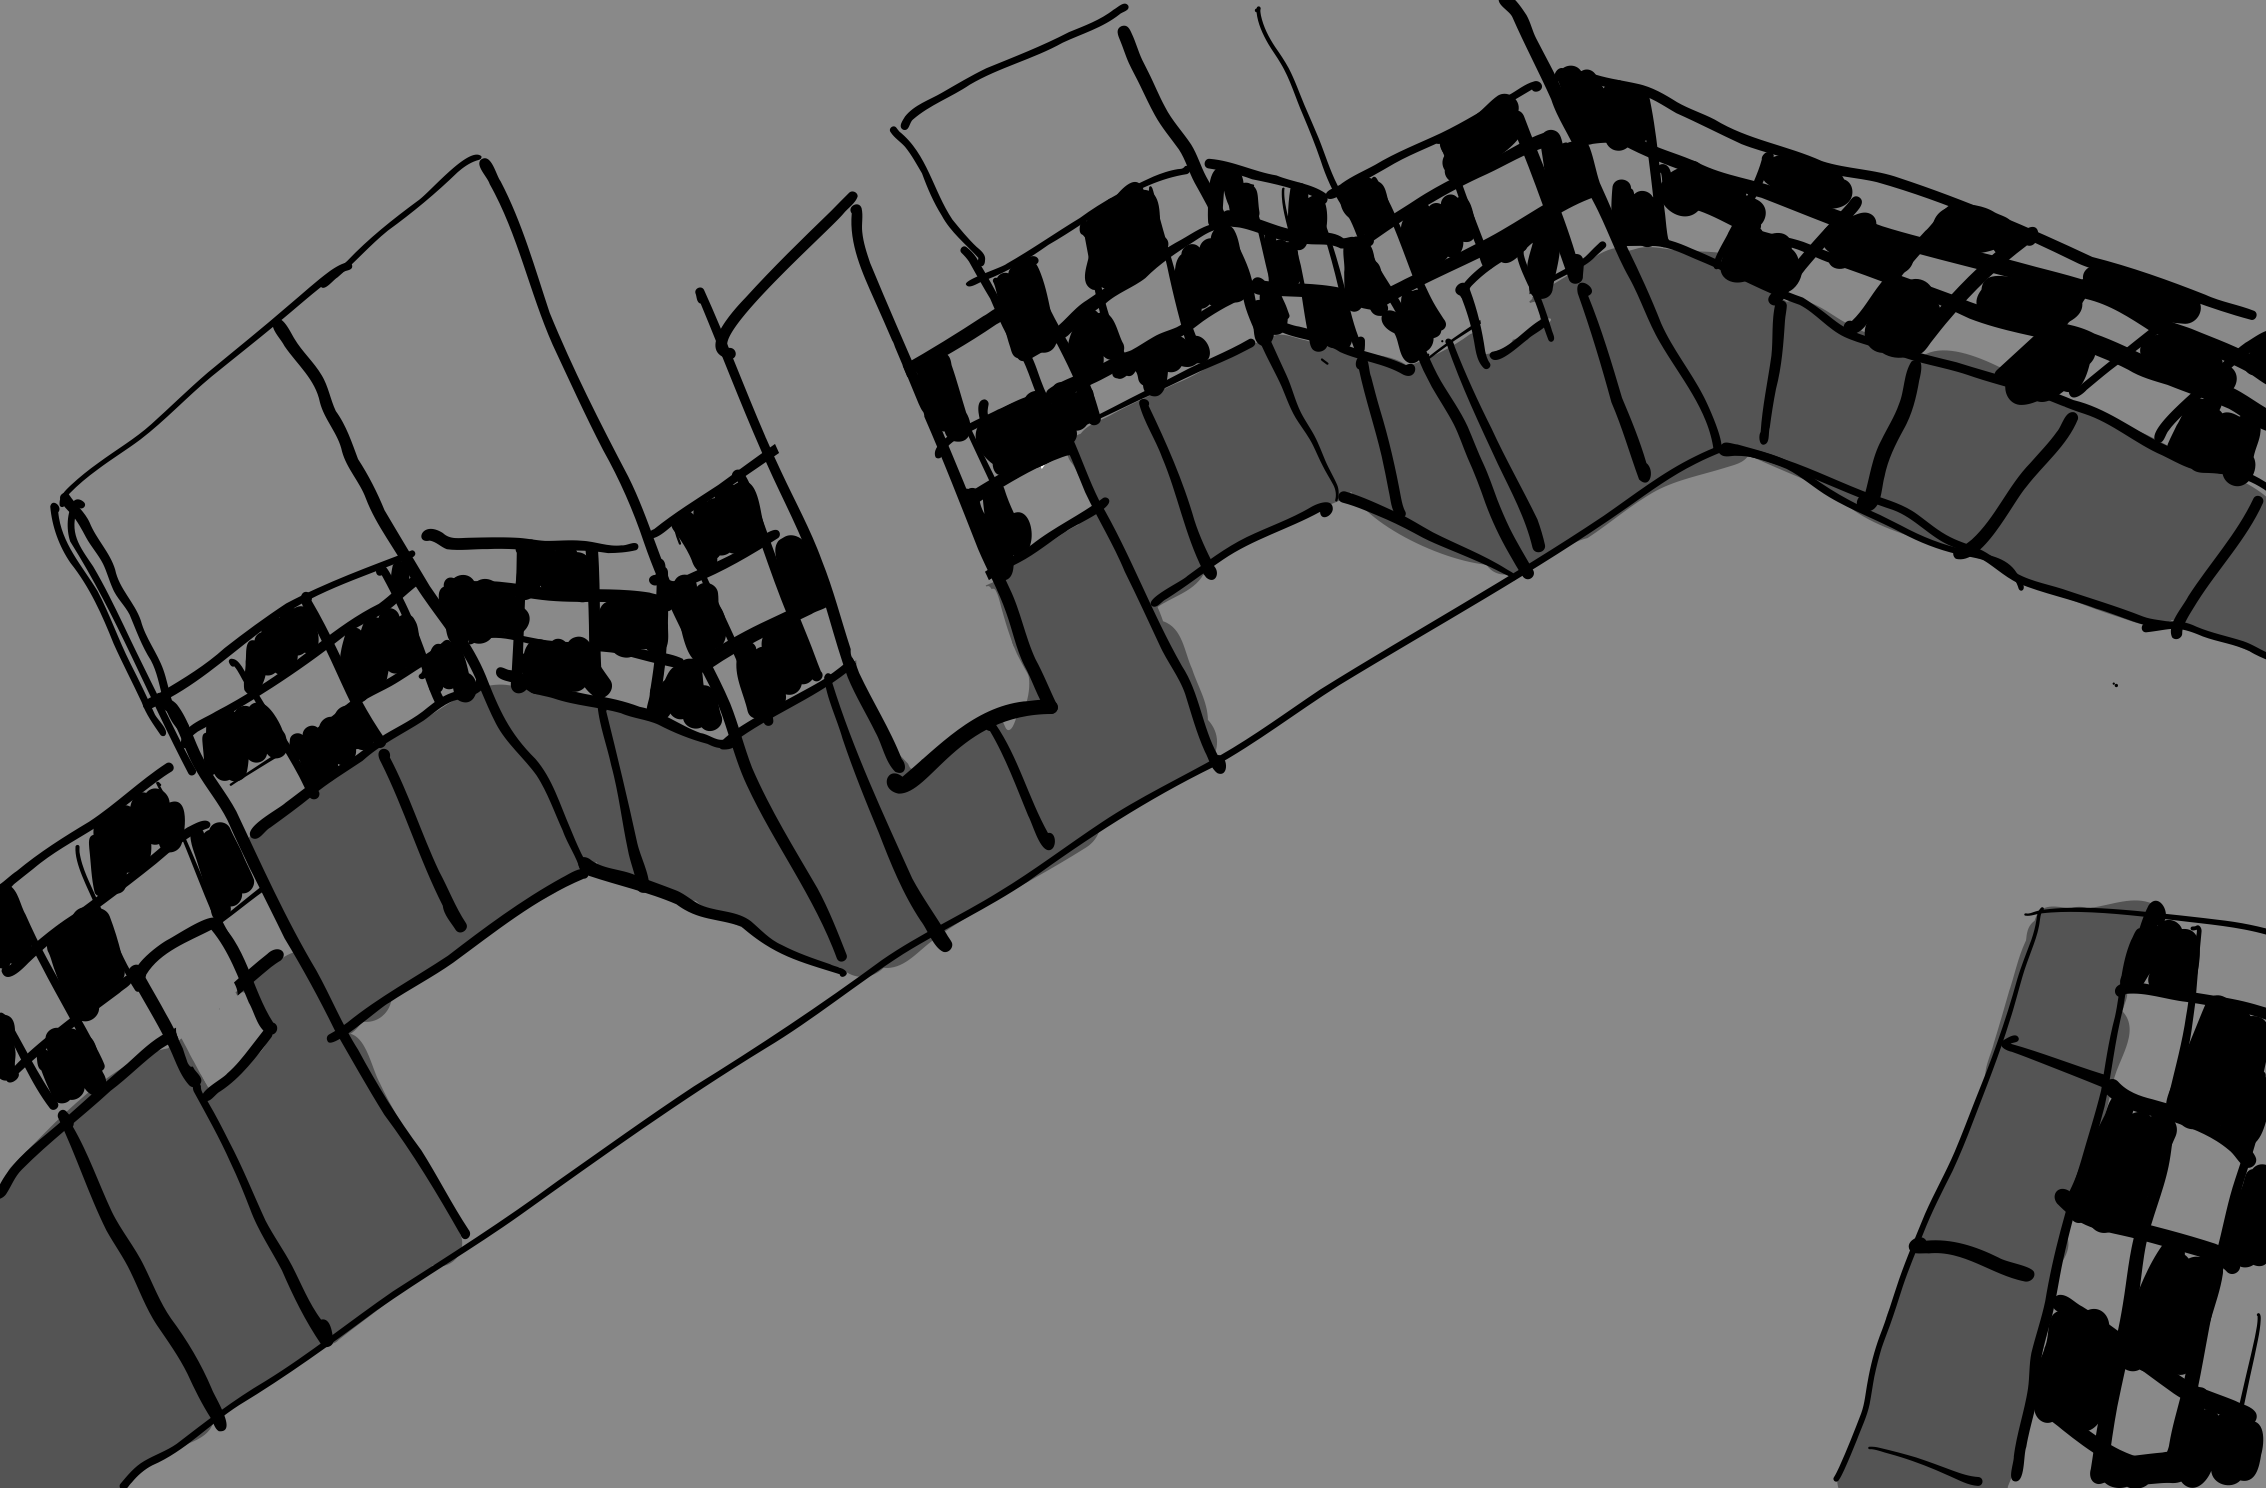
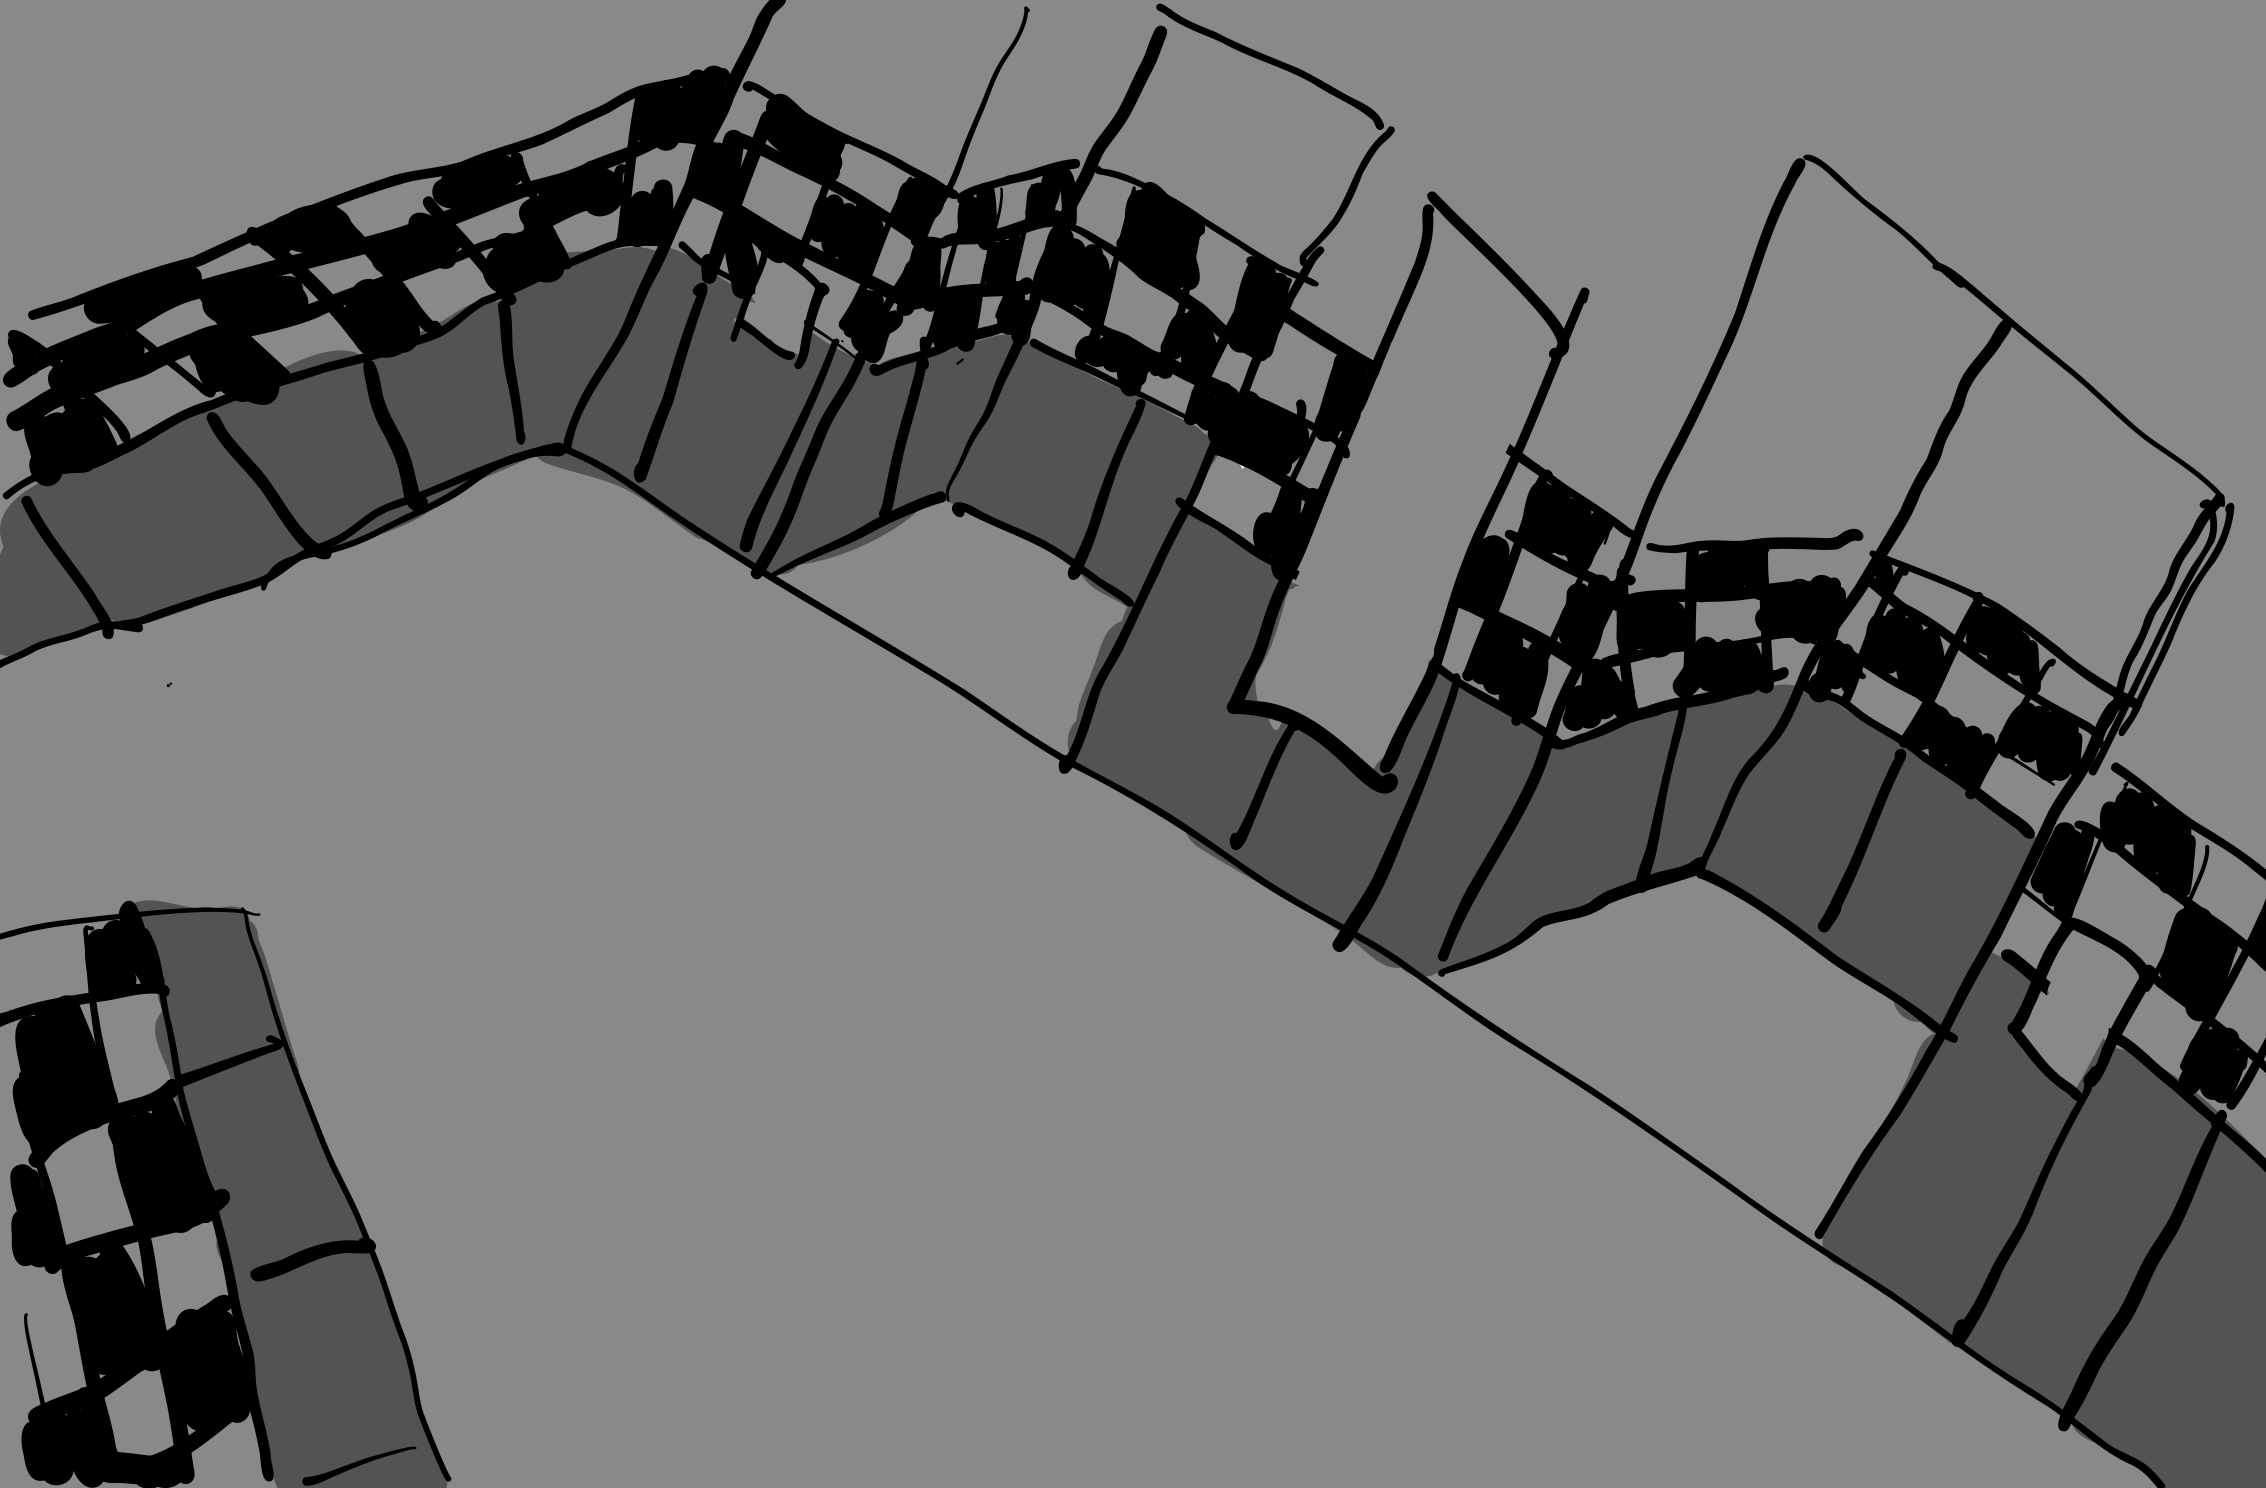
show animatronics and jumpscares (untested)

diff --git a/client/src/components/camera/background/CameraBGAnimatronic.tsx b/client/src/components/camera/background/CameraBGAnimatronic.tsx
@@ -1,5 +1,3 @@
-import { type Restaurant, type Animatronic } from '../../../Game'
-
 import A_1A_Bonnie from "../../../assets/A_1A_Bonnie.png"
 import A_1A_Chica from "../../../assets/A_1A_Chica.png"
 import A_1A_Freddy from "../../../assets/A_1A_Freddy.png"
@@ -17,6 +15,8 @@ import A_4B_Freddy from "../../../assets/A_4B_Freddy.png"
 import A_5_Bonnie from "../../../assets/A_5_Bonnie.png"
 import A_7_Chica from "../../../assets/A_7_Chica.png"
 import A_7_Freddy from "../../../assets/A_7_Freddy.png"
+
+import { type Restaurant } from "../../../Game"
 
 import backgroundStyle from "../../../styles/background.module.css"
 
@@ -38,63 +38,55 @@ const CameraBGAnimatronic = ({
     const getCamera = (): string[] => {
         const result: string[] = []
 
-        const getAnimatronicCamera = (s: string) => {
-            <img
-                src={s}
-                alt={s}
-                className={backgroundStyle.overlay}
-            />            
-        }
-
         switch(cameraPos) {
             case 1.1:
-                if(bonnie.position == 5) getAnimatronicCamera(A_1A_Bonnie)
-                if(chica.position == 5) getAnimatronicCamera(A_1A_Chica)
-                if(freddy.position == 7) getAnimatronicCamera(A_1A_Freddy)
+                if(bonnie.position == 5) result.push(A_1A_Bonnie)
+                if(chica.position == 6) result.push(A_1A_Chica)
+                if(freddy.position == 6) result.push(A_1A_Freddy)
 
                 break
 
             case 1.2:
-                if(bonnie.position == 4) getAnimatronicCamera(A_1B_Bonnie)
-                if(chica.position == 4) getAnimatronicCamera(A_1B_Chica)
-                if(freddy.position == 6) getAnimatronicCamera(A_1B_Freddy) 
+                if(bonnie.position == 4) result.push(A_1B_Bonnie)
+                if(chica.position == 4) result.push(A_1B_Chica)
+                if(freddy.position == 5) result.push(A_1B_Freddy) 
                     
                 break
 
             case 1.3:
-                if(foxy.position == 1) getAnimatronicCamera(A_1C_Foxy)
+                if(foxy.position == 1) result.push(A_1C_Foxy)
                 
                 break
 
             case 2.1:
-                if(bonnie.position == 2) getAnimatronicCamera(A_2A_Bonnie)
+                if(bonnie.position == 2) result.push(A_2A_Bonnie)
                 
                 break
 
             case 2.2:
-                if(bonnie.position == 1) getAnimatronicCamera(A_2B_Bonnie)
+                if(bonnie.position == 1) result.push(A_2B_Bonnie)
                 
                 break
 
             case 3:
-                if(freddy.position == 4) getAnimatronicCamera(A_3_Freddy)
+                if(freddy.position == 4) result.push(A_3_Freddy)
 
                 break
 
             case 4.1:
-                if(chica.position == 2) getAnimatronicCamera(A_4A_Chica)
-                if(freddy.position == 2) getAnimatronicCamera(A_4A_Freddy)
+                if(chica.position == 2) result.push(A_4A_Chica)
+                if(freddy.position == 2) result.push(A_4A_Freddy)
 
                 break
 
             case 4.2:
-                if(chica.position == 1) getAnimatronicCamera(A_4B_Chica)
-                if(freddy.position == 1) getAnimatronicCamera(A_4B_Freddy)     
+                if(chica.position == 1) result.push(A_4B_Chica)
+                if(freddy.position == 1) result.push(A_4B_Freddy)     
                     
                 break
 
             case 5:
-                if(bonnie.position == 3) getAnimatronicCamera(A_5_Bonnie)
+                if(bonnie.position == 3) result.push(A_5_Bonnie)
                 
                 break
 
@@ -102,8 +94,8 @@ const CameraBGAnimatronic = ({
                 break
 
             case 7:
-                if(chica.position == 4) getAnimatronicCamera(A_7_Chica)
-                if(freddy.position == 3) getAnimatronicCamera(A_7_Freddy)
+                if(chica.position == 4) result.push(A_7_Chica)
+                if(freddy.position == 3) result.push(A_7_Freddy)
 
                 break
 
@@ -117,12 +109,15 @@ const CameraBGAnimatronic = ({
     return (
         <>
             {
-                getCamera().forEach(camera => {
-                    <img
-                        src={camera}
-                        alt="camera screen"
-                        className={backgroundStyle.overlay}
-                    />   
+                getCamera().map(camera => {
+                    return (
+                        <img
+                            key={camera}
+                            src={camera}
+                            alt={camera}
+                            className={backgroundStyle.overlay}
+                        />
+                    )
                 })
             }       
         </>

diff --git a/client/src/Game.tsx b/client/src/Game.tsx
@@ -6,7 +6,13 @@ import Office from "./components/office/Office";
 import Camera from "./components/camera/Camera";
 import CameraToggle from "./components/camera/CameraToggle"
 
+import Jumpscare_Freddy from "./assets/Jumpscare_Freddy.png"
+import Jumpscare_Foxy from "./assets/JumpScare_Foxy.png"
+import Jumpscare_Chica from "./assets/Jumpscare_Chica.png"
+import Jumpscare_Bonnie from "./assets/Jumpscare_Bonnie.png"
+
 import fit from "./styles/fit.module.css";
+import backgroundStyle from "./styles/background.module.css"
 
 // Types
 export type Animatronic = {
@@ -67,15 +73,35 @@ const Game = () => {
         }
 
         animatronic.position = newLocation;
-    };
+    }
+
+    const jumpScare = () => {
+        if(done) {
+            let animatronic
+
+            if(restaurant.animatronics.freddy.position <= 0) animatronic = Jumpscare_Freddy
+            else if(restaurant.animatronics.foxy.position <= 0) animatronic = Jumpscare_Foxy
+            else if(restaurant.animatronics.chica.position <= 0) animatronic = Jumpscare_Chica
+            else if(restaurant.animatronics.bonnie.position <= 0) animatronic = Jumpscare_Bonnie
+
+            if(animatronic)
+                return (
+                    <img
+                        src = { animatronic }
+                        alt = { animatronic }
+                        className = { backgroundStyle.overlay }
+                    />
+                )
+        }
+    }
 
     // Effects
-    // Recalculate restaurant values based on animatronic movement
     useInterval(
         () => {
+            console.log(restaurant)
             if (count % 10 === 0) {
                 moveAnimatronic(restaurant.animatronics.freddy);
-            } else if (count % 9 === 0) {
+            } else if (count % 2 === 0) {
                 moveAnimatronic(restaurant.animatronics.foxy);
             } else if (count % 8 === 0) {
                 moveAnimatronic(restaurant.animatronics.chica);
@@ -93,7 +119,8 @@ const Game = () => {
     return (
         <div className={fit.game}>
             <div className={fit.aspect}>
-                {cameraToggle?
+                {   
+                    cameraToggle?
                     <Camera 
                         restaurant = { restaurant }
                         cameraPos = { cameraPos }
@@ -109,6 +136,8 @@ const Game = () => {
                     camera = { cameraToggle }
                     setCamera = { setCameraToggle }
                 />
+
+                {jumpScare()}
             </div>
         </div>
     );

diff --git a/client/src/components/camera/Camera.tsx b/client/src/components/camera/Camera.tsx
@@ -1,9 +1,8 @@
-import { type Dispatch, type SetStateAction } from "react";
+import { useEffect, type Dispatch, type SetStateAction } from "react";
 
 import type { Restaurant } from "../../Game"
 
 import CameraBG from './background/CameraBG'
-import CameraBGAnimatronic from './background/CameraBGAnimatronic'
 import CameraControls from './CameraControls'
 
 interface CameraProps {
@@ -17,15 +16,15 @@ const Camera = ({
     cameraPos,
     setCameraPos
 }: CameraProps) => {
+    useEffect(() => {
+        if(cameraPos == 1.3) restaurant.animatronics.foxy.position += 1
+    }, [])
+
     return (
         <>
             <CameraBG
                 cameraPos = { cameraPos }
-            />
-
-            <CameraBGAnimatronic
                 restaurant = { restaurant }
-                cameraPos = { cameraPos }
             />
 
             <CameraControls

diff --git a/client/src/components/camera/background/CameraBG.tsx b/client/src/components/camera/background/CameraBG.tsx
@@ -1,14 +1,17 @@
 import CameraBGScreen from './CameraBGScreen'
 import CameraBGMap from './CameraBGMap'
+import CameraBGAnimatronic from './CameraBGAnimatronic';
 
-import backgroundStyle from '../../../styles/background.module.css'
+import { type Restaurant } from '../../../Game';
 
 interface CameraBGProps {
     cameraPos: number;
+    restaurant: Restaurant;
 }
 
 const CameraBG = ({
-    cameraPos
+    cameraPos,
+    restaurant
 }: CameraBGProps) => {
 
 
@@ -18,6 +21,11 @@ const CameraBG = ({
                 cameraPos = { cameraPos }
             />
 
+            <CameraBGAnimatronic
+                cameraPos = { cameraPos }
+                restaurant = { restaurant }
+            />
+            
             <CameraBGMap
                 cameraPos = { cameraPos }
             />
